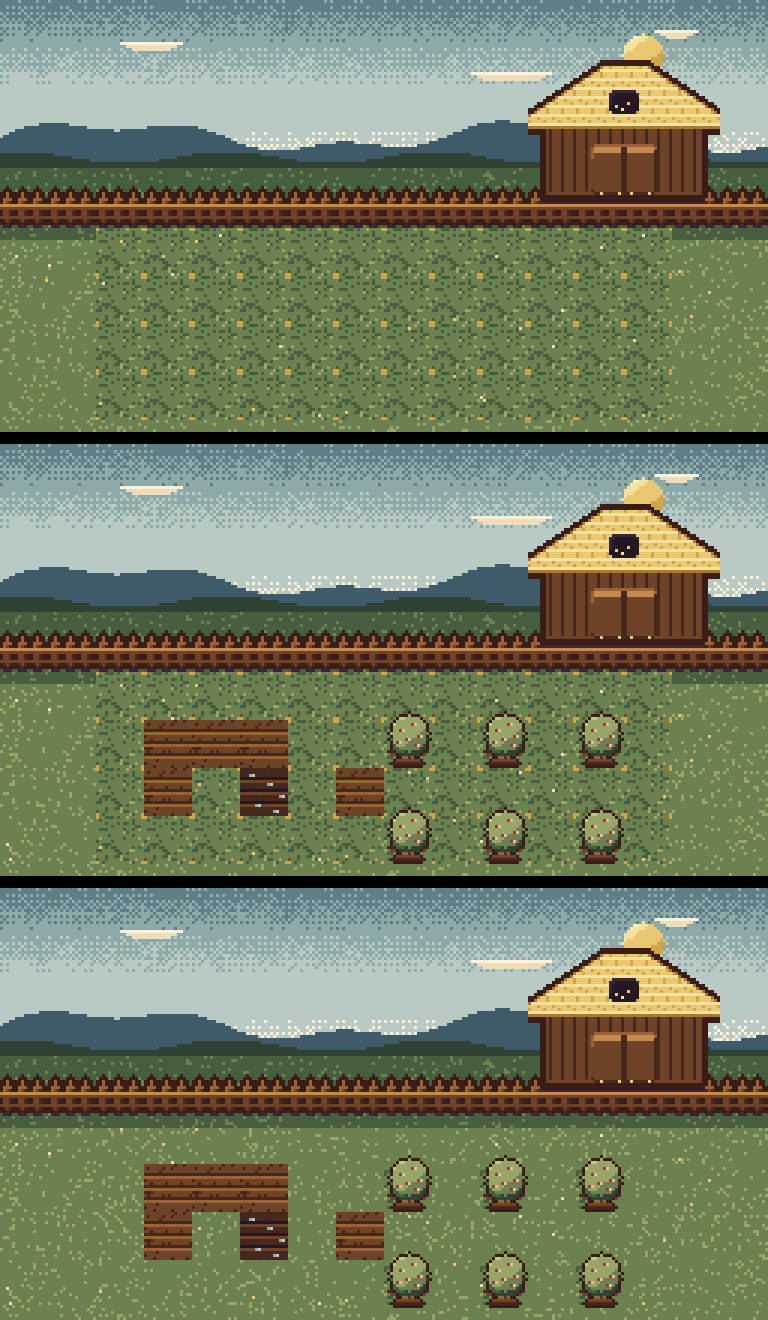
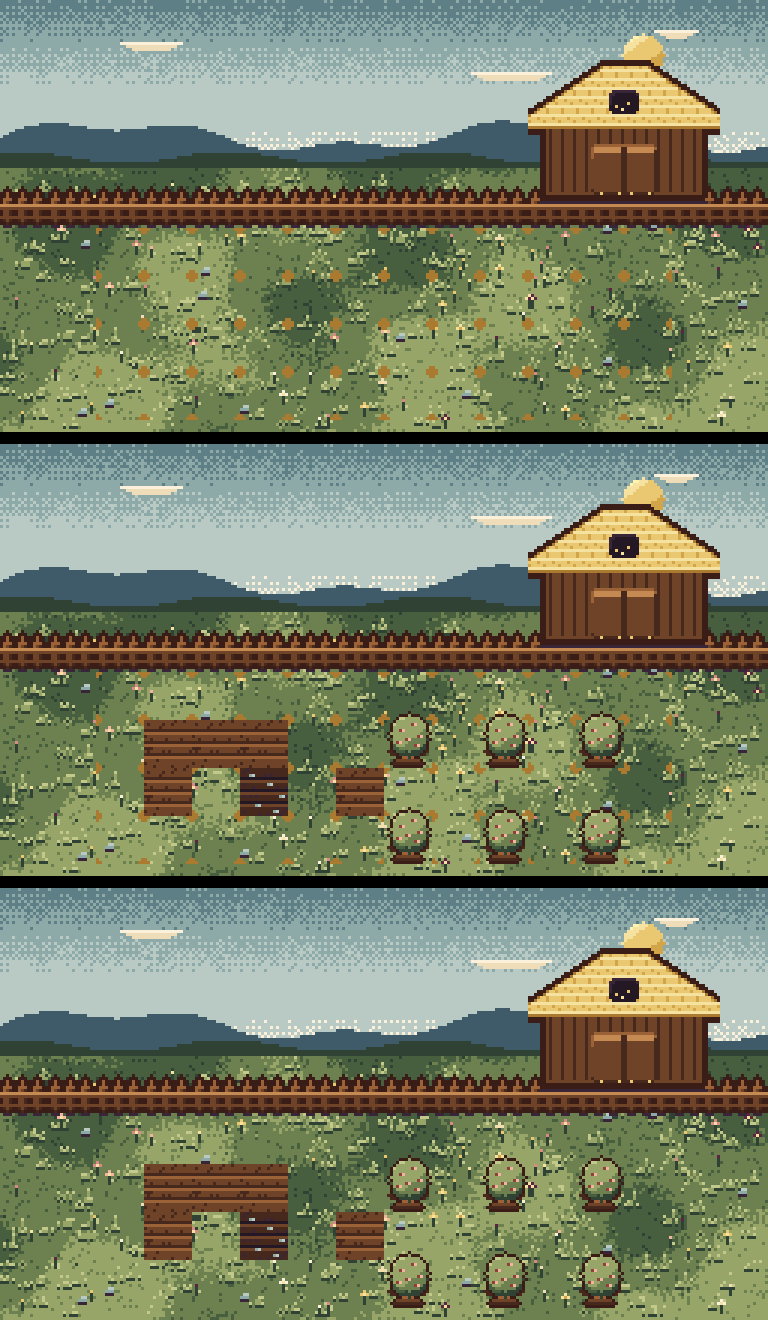
Farma: zroznicowana polana zamiast gladkiej trawy, przezroczyste dzialki
Claude-Session: https://claude.ai/code/session_0135h6bTXzjAgeLjpLoaFjGV

diff --git a/tools/art/world/farm_bg.py b/tools/art/world/farm_bg.py
@@ -47,6 +47,42 @@ MID = [("lawn", c, r) for r in range(ROWS) for c in range(COLS) if (c, r) not in
        ("tree", 6, 1), ("tree", 8, 1), ("tree", 10, 1), ("tree", 6, 3), ("tree", 8, 3), ("tree", 10, 3)]
 
 
+def meadow(im, r):
+    """Polana: plamy tonow trawy (niska czestotliwosc), kepy z dlugimi zdzblami, kwiatki, koniczyna, paprocie i kamyki."""
+    for y in range(HORIZON + 2, HT):
+        for x in range(W):
+            v = math.sin(x / 17.0 + y / 23.0) + math.sin(x / 9.0 - y / 13.0 + 2) * .6 + math.sin(y / 7.0 + x / 31.0) * .4
+            v += (y - HORIZON) / 60.0 - .6 + r.uniform(-.35, .35)
+            c = "moss.1" if v < -.75 else ("moss.2" if v < .8 else "moss.3")
+            if r.random() < .06: c = "moss.0" if c == "moss.1" else ("moss.1" if c == "moss.2" else "moss.2")
+            H.put(im, x, y, c)
+    for _ in range(190):                                           # kepy trawy: 3-5 zdzbel o roznej dlugosci
+        x, y = r.randint(2, W - 3), r.randint(HORIZON + 6, HT - 2)
+        for dx, ln in ((-2, r.randint(2, 3)), (0, r.randint(3, 6)), (2, r.randint(2, 4)), (r.choice((-1, 1)), r.randint(2, 4))):
+            for k in range(ln): H.put(im, x + dx + (k // 3) * (1 if dx >= 0 else -1), y - k, "moss.0" if k == 0 else ("moss.3" if k < ln - 1 else "moss.4"))
+    for _ in range(26):                                            # koniczyna i listki lezace w trawie
+        x, y = r.randint(2, W - 4), r.randint(HORIZON + 6, HT - 3)
+        for dx, dy in ((0, 0), (2, 0), (1, 1), (1, -1)): H.put(im, x + dx, y + dy, "moss.4" if (dx + dy) % 2 else "moss.3")
+        H.put(im, x + 1, y, "moss.0")
+    for _ in range(9):                                             # wieksze rosliny: paprocie / krzaczki
+        x, y = r.randint(6, W - 8), r.randint(HORIZON + 10, HT - 3)
+        for k, (dx, dy) in enumerate(((0, 0), (-3, 1), (3, 1), (-2, -2), (2, -2), (0, -3), (-4, 3), (4, 3))):
+            H.put(im, x + dx, y + dy, "moss.0" if k < 1 else "moss.4"); H.put(im, x + dx // 2, y + dy // 2, "moss.3")
+    pal = ("rose.1", "rose.2", "hay.3", "linen.3", "linen.2", "berry.0", "hay.2")
+    for _ in range(95):                                            # pojedyncze kwiatki na lodygach
+        x, y = r.randint(2, W - 3), r.randint(HORIZON + 8, HT - 4)
+        c = r.choice(pal); big = r.random() < .3
+        H.vline(im, x, y, y + 2, "moss.0")
+        if r.random() < .5: H.put(im, x + 1, y + 1, "moss.4")
+        H.put(im, x, y - 1, c)
+        if big:
+            for dx, dy in ((-1, -1), (1, -1), (0, -2)): H.put(im, x + dx, y + dy, c)
+            H.put(im, x, y - 1, "hay.3" if c != "hay.3" else "hay.1")
+    for _ in range(14):                                            # kamyki
+        x, y = r.randint(3, W - 5), r.randint(HORIZON + 10, HT - 3)
+        H.hline(im, x, x + 2, y, "dusk.3"); H.hline(im, x + 1, x + 2, y - 1, "dusk.4"); H.hline(im, x, x + 2, y + 1, "plum.1")
+
+
 def world(plots=()):
     r = random.Random(51)
     im = H.canvas(W, HT)
@@ -54,11 +90,7 @@ def world(plots=()):
         H.vline(im, x, int(HORIZON - 8 - 4 * math.sin(x / 23.0) - 2 * math.sin(x / 8.0)), HORIZON, "dusk.1")
     for x in range(W):
         H.vline(im, x, int(HORIZON - 1 - 2 * math.sin(x / 11.0 + 1)), HORIZON + 2, "moss.0")
-    for y in range(HORIZON + 2, HT):
-        for x in range(W):
-            c = "moss.1" if y < HORIZON + 26 else "moss.2"
-            if r.random() < .09: c = "moss.2" if c == "moss.1" else "moss.3"
-            H.put(im, x, y, c)
+    meadow(im, r)
     H.break_checkers(im)
     meta = json.loads((H.WORLD_DIR / "farm/farm.json").read_text(encoding="utf-8"))["frames"]
     sheet = _img("farm/farm.png")
@@ -79,9 +111,6 @@ def world(plots=()):
             put("plot_orchard", x, y, _img("farm/plot_orchard.png"))
             nm = "tree_apple" if (c + rw) % 2 == 0 else "tree_strawberry"
             put(nm, x, y - 16, fr(nm, 2))
-    for _ in range(30):
-        x, y = r.randint(0, W - 1), r.randint(HORIZON + 24, HT - 3)
-        if im.getpixel((x, y))[:3] in H.RAMPS["moss"]: H.put(im, x, y, r.choice(["hay.2", "linen.2"]))
     return im
 
 

diff --git a/tools/art/world/farm_b.py b/tools/art/world/farm_b.py
@@ -21,19 +21,19 @@ def _grass(im, r, tones):
 
 
 def plot_lawn():
-    """Puste pole z trawnikiem: jasniejsza kratka z naroznikami z siana (miejsce do przerobienia)."""
+    """Pusta dzialka trawnika: tylko znaczniki naroznikow z siana (L-ki), reszta przezroczysta, zeby widac bylo polane."""
     im = H.canvas(W, Ht)
-    _grass(im, random.Random(7), ("moss.2", "moss.1", "moss.3"))
-    for x, y in ((0, 0), (W - 1, 0), (0, Ht - 1), (W - 1, Ht - 1)): H.put(im, x, y, "hay.1")
+    for x, y, dx, dy in ((0, 0, 1, 1), (W - 1, 0, -1, 1), (0, Ht - 1, 1, -1), (W - 1, Ht - 1, -1, -1)):
+        H.put(im, x, y, "hay.0"); H.put(im, x + dx, y, "hay.0"); H.put(im, x, y + dy, "hay.0")
     return im
 
 
 def plot_orchard():
     """Miejsce na drzewko: trawa z kregiem sciolki; drzewko (16x32) stoi dolem na tej komorce, korona zajmuje komorke nad nia."""
     im = H.canvas(W, Ht)
-    _grass(im, random.Random(11), ("moss.2", "moss.1", "moss.3"))
     for dy, hw in ((-4, 4), (-3, 6), (-2, 7), (-1, 6), (0, 4)):
-        H.hline(im, 8 - hw, 7 + hw, 10 + dy + 2, "wood.1" if abs(dy) < 2 else "wood.0")
+        H.hline(im, 8 - hw, 7 + hw, 10 + dy + 2, "wood.0")
+        if -3 <= dy <= -1: H.hline(im, 10 - hw, 5 + hw, 10 + dy + 2, "wood.1")
     H.hline(im, 5, 10, 10, "wood.2")
     return im
 

diff --git a/docs/PLAN.md b/docs/PLAN.md
@@ -266,7 +266,7 @@ Poza kodem: rysunek 3 starych animacji z `Resources/animations.xml` zostaje jak 
 
 ### Pole i sad zależne od gracza (dla programisty; do G6 i W20-05 / W18)
 Gracz sam decyduje, ile ma pól uprawnych i ile drzewek w sadzie. Na początku dostaje **puste pole z trawnikiem** (`bg:farm`: trawa, płot i stodoła, bez grządek i drzew). Trawnik to siatka małych kwadratowych działek **16x16, każda przerabiana osobno** (żadnych dużych połaci):
-- działka `lawn` (`plot_lawn`, 16x16, jaśniejsza kratka z narożnikami z siana) → **grządka** (`bed_empty`, 16x16) albo **miejsce na drzewko** (`plot_orchard`, 16x16, krąg ściółki, na nim stoi drzewko 16x32; korona zajmuje komórkę nad nim, więc ta komórka jest zarezerwowana i nie przyjmie drugiego drzewka);
+- działka `lawn` (`plot_lawn`, 16x16, przezroczysta, tylko cztery narożniki z siana; trawę rysuje tło, więc polana nie składa się z identycznych kwadratów) → **grządka** (`bed_empty`, 16x16) albo **miejsce na drzewko** (`plot_orchard`, 16x16, przezroczysty, sam krąg ściółki, na nim stoi drzewko 16x32; korona zajmuje komórkę nad nim, więc ta komórka jest zarezerwowana i nie przyjmie drugiego drzewka);
 - **grządka jest sucha** (`bed_empty`), mokra (`bed_wet`) tylko po podlaniu i znowu sucha po wyschnięciu (czas z `farm.json`); mokra grządka nie jest osobnym typem działki;
 - przeróbka kosztuje koniczynki, rozbiórka zwraca działkę do trawnika; liczba działek i podział pole/sad nie są zaszyte w układzie: stan zapisu trzyma listę działek `{col, row, kind: lawn|bed|tree, stage, wet}`, a `FarmExpansion` odblokowuje kolejne komórki siatki za koniczynki (strop w `farm.json`);
 - scena: tło, potem działki rzędami od góry (niższe rysowane później), potem światło; siatka 12x4 komórek na trawniku (`farm_bg.GX/GY/COLS/ROWS`), zasady warstw w `docs/UKLAD_SCEN.md`;

diff --git a/docs/VISUAL_LOG.md b/docs/VISUAL_LOG.md
@@ -163,3 +163,6 @@ sofa_cosy (bochenek, brick, 4 warianty), fireplace (wył + 4 klatki wł), lamp_m
 ## B12 - świnki w świecie i rekwizyty pulpitu (3.11.2026)
 - `shadow_pig_baby/junior/adult` (fx), specyfikacja `docs/SWIATLO_SWINEK.md`; test 5x5x4 w `pig_shadow.py` (maści czytelne, bez poprawek świata).
 - `assets/props/` (`ball`, `tunnel`, `hay_ball`, `house` + `_x2` + `props.json`) dla okna Pulpit.
+
+## Polana farmy (3.11.2026)
+- `bg/farm.png`, `bg/orchard.png`, `bg/menu.png`: jedna zróżnicowana polana (plamy tonów trawy, kępy z długimi źdźbłami, pojedyncze kwiatki na łodygach, koniczyna, paprocie, kamyki). `plot_lawn` i `plot_orchard` przezroczyste, widać polanę pod działkami. Lint 0 (161 plików).
